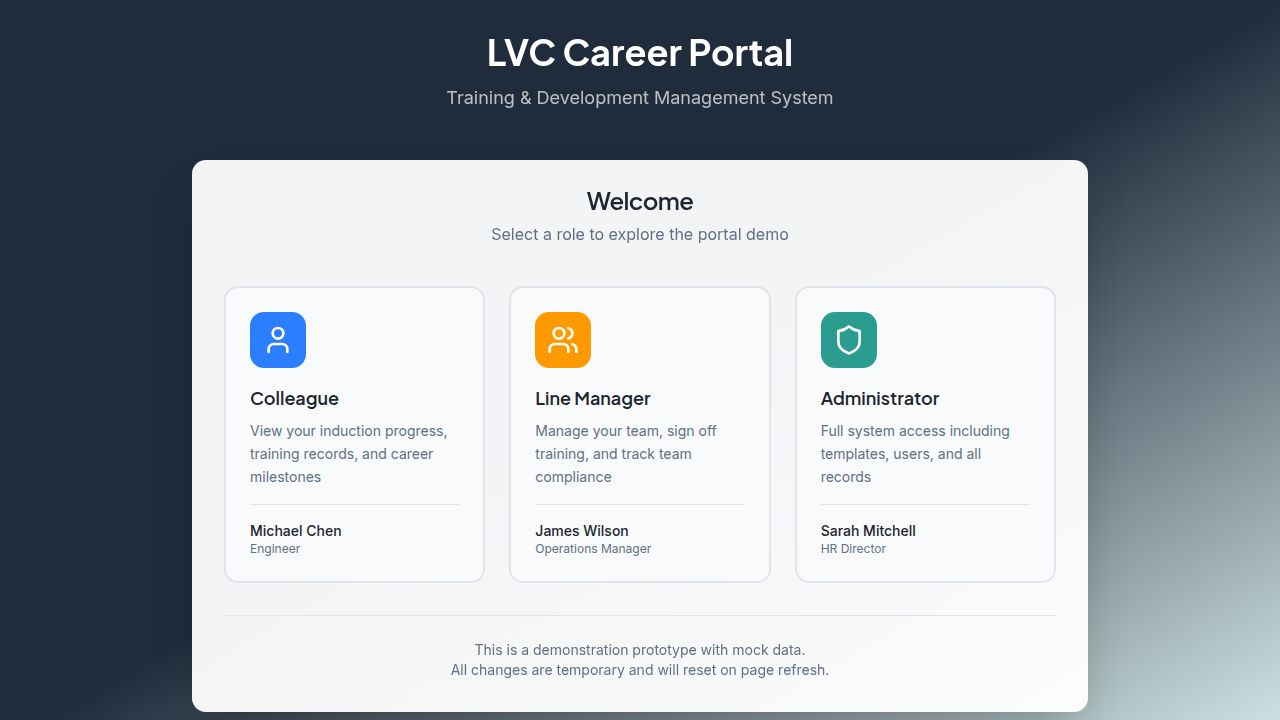
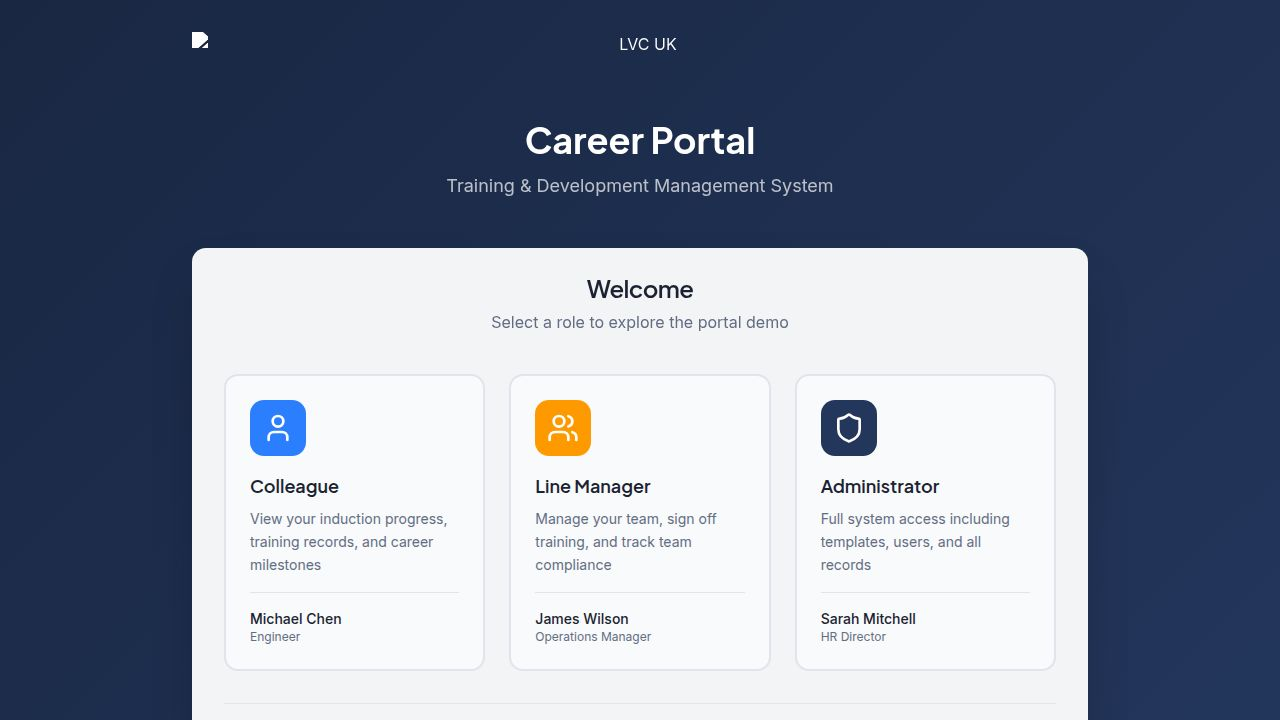
Update accent colors to use red instead of gold
Change CSS variables for accent colors from yellow/gold hues to red hues to match new branding requirements.

Replit-Commit-Author: Agent
Replit-Commit-Session-Id: 665b2c4e-7909-4c86-a594-1962eba4ff40
Replit-Commit-Checkpoint-Type: full_checkpoint
Replit-Commit-Event-Id: ab188e8a-6af4-4726-b9e7-f3990f2a99c4
Replit-Commit-Screenshot-Url: https://storage.googleapis.com/screenshot-production-us-central1/2565765e-ec8a-48cb-8b0c-08bddbe96229/665b2c4e-7909-4c86-a594-1962eba4ff40/hUhM885
Replit-Helium-Checkpoint-Created: true

diff --git a/client/src/index.css b/client/src/index.css
@@ -72,11 +72,11 @@
   --sidebar: 220 45% 18%;
   --sidebar-foreground: 210 20% 95%;
   --sidebar-border: 220 40% 25%;
-  --sidebar-primary: 45 95% 50%;
-  --sidebar-primary-foreground: 220 45% 15%;
+  --sidebar-primary: 0 72% 51%;
+  --sidebar-primary-foreground: 0 0% 100%;
   --sidebar-accent: 220 40% 25%;
   --sidebar-accent-foreground: 210 20% 95%;
-  --sidebar-ring: 45 95% 50%;
+  --sidebar-ring: 0 72% 51%;
 
   --popover: 0 0% 100%;
   --popover-foreground: 220 30% 15%;
@@ -92,9 +92,9 @@
   --muted: 220 15% 95%;
   --muted-foreground: 220 15% 45%;
 
-  /* LVC Accent: Yellow/Gold */
-  --accent: 45 95% 50%;
-  --accent-foreground: 220 45% 15%;
+  /* LVC Accent: Red */
+  --accent: 0 72% 51%;
+  --accent-foreground: 0 0% 100%;
 
   --destructive: 0 72% 51%;
   --destructive-foreground: 0 0% 100%;
@@ -109,17 +109,17 @@
   --radius: 0.625rem;
 
   --chart-1: 220 45% 25%;
-  --chart-2: 45 95% 50%;
+  --chart-2: 0 72% 51%;
   --chart-3: 142 71% 45%;
-  --chart-4: 0 72% 51%;
+  --chart-4: 38 92% 50%;
   --chart-5: 220 30% 50%;
 
   --primary-border: hsl(220 45% 18%);
   --secondary-border: hsl(220 15% 88%);
   --muted-border: hsl(220 15% 90%);
-  --accent-border: hsl(45 95% 42%);
+  --accent-border: hsl(0 72% 44%);
   --destructive-border: hsl(0 72% 44%);
-  --sidebar-primary-border: hsl(45 95% 42%);
+  --sidebar-primary-border: hsl(0 72% 44%);
   --sidebar-accent-border: hsl(220 40% 20%);
 }
 
@@ -143,18 +143,18 @@
   --sidebar: 220 40% 7%;
   --sidebar-foreground: 210 20% 95%;
   --sidebar-border: 220 35% 15%;
-  --sidebar-primary: 45 95% 50%;
-  --sidebar-primary-foreground: 220 45% 15%;
+  --sidebar-primary: 0 72% 51%;
+  --sidebar-primary-foreground: 0 0% 100%;
   --sidebar-accent: 220 35% 15%;
   --sidebar-accent-foreground: 210 20% 95%;
-  --sidebar-ring: 45 95% 50%;
+  --sidebar-ring: 0 72% 51%;
 
   --popover: 220 32% 11%;
   --popover-foreground: 210 20% 95%;
   --popover-border: 220 30% 18%;
 
-  --primary: 45 95% 50%;
-  --primary-foreground: 220 45% 15%;
+  --primary: 0 72% 51%;
+  --primary-foreground: 0 0% 100%;
 
   --secondary: 220 30% 18%;
   --secondary-foreground: 210 20% 90%;
@@ -162,8 +162,8 @@
   --muted: 220 30% 15%;
   --muted-foreground: 220 15% 55%;
 
-  --accent: 45 95% 50%;
-  --accent-foreground: 220 45% 15%;
+  --accent: 0 72% 51%;
+  --accent-foreground: 0 0% 100%;
 
   --destructive: 0 72% 51%;
   --destructive-foreground: 0 0% 100%;
@@ -174,9 +174,9 @@
   --warning: 38 92% 50%;
   --warning-foreground: 0 0% 100%;
 
-  --ring: 45 95% 50%;
+  --ring: 0 72% 51%;
 
-  --chart-1: 45 95% 50%;
+  --chart-1: 0 72% 51%;
   --chart-2: 220 35% 35%;
   --chart-3: 142 71% 45%;
   --chart-4: 0 72% 51%;
